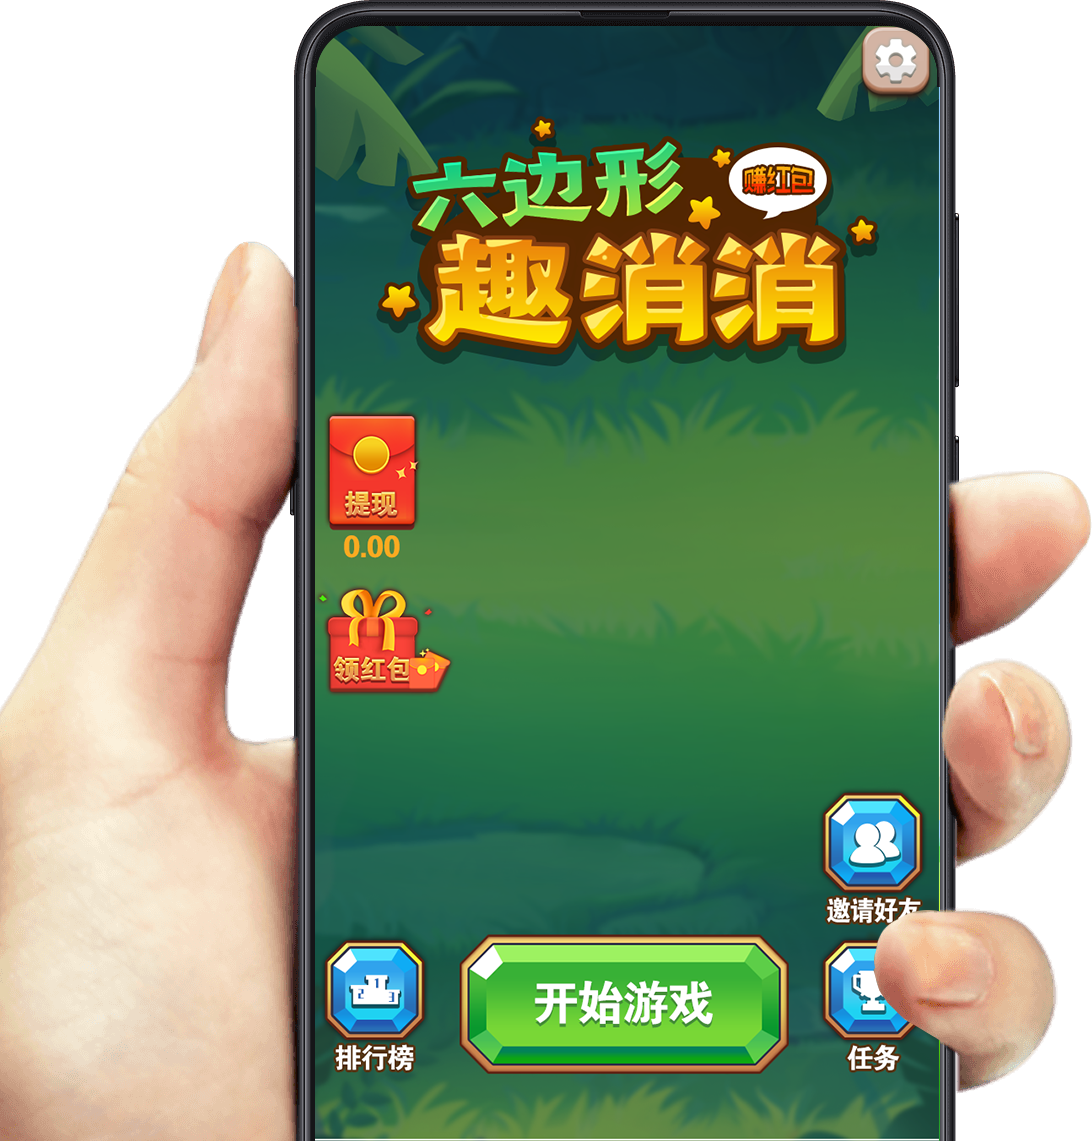
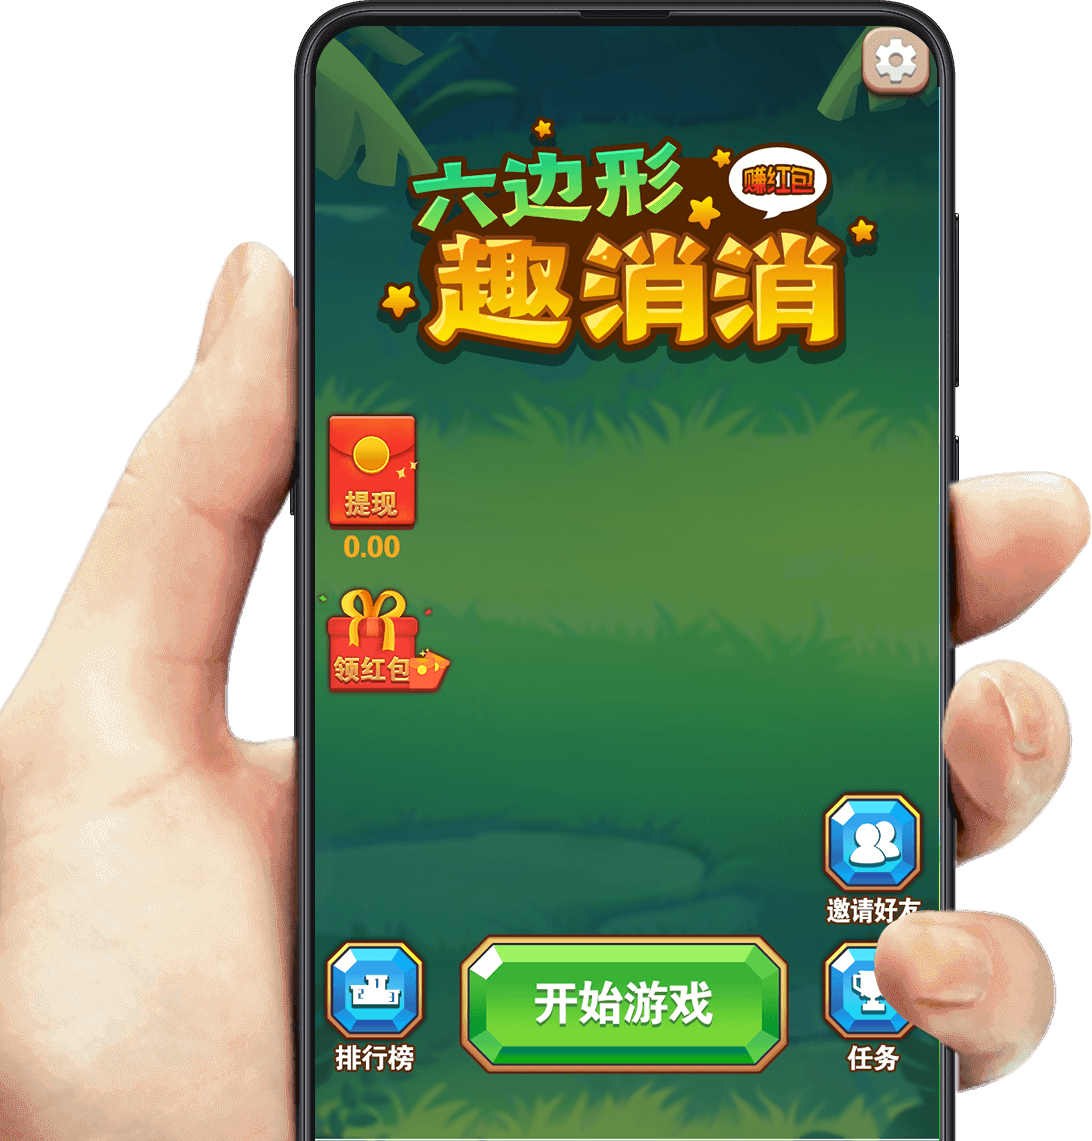
update 压缩图片

diff --git a/website/happy_hex/index.html b/website/happy_hex/index.html
@@ -47,7 +47,7 @@
     </a>
 
     <p class="records-code">
-        Copyright © 2017 南京魔度互娱信息技术有限公司 版权所有.
+        Copyright © 2020 南京魔度互娱信息技术有限公司 版权所有.
     </p>
 
     <script type="text/javascript">
